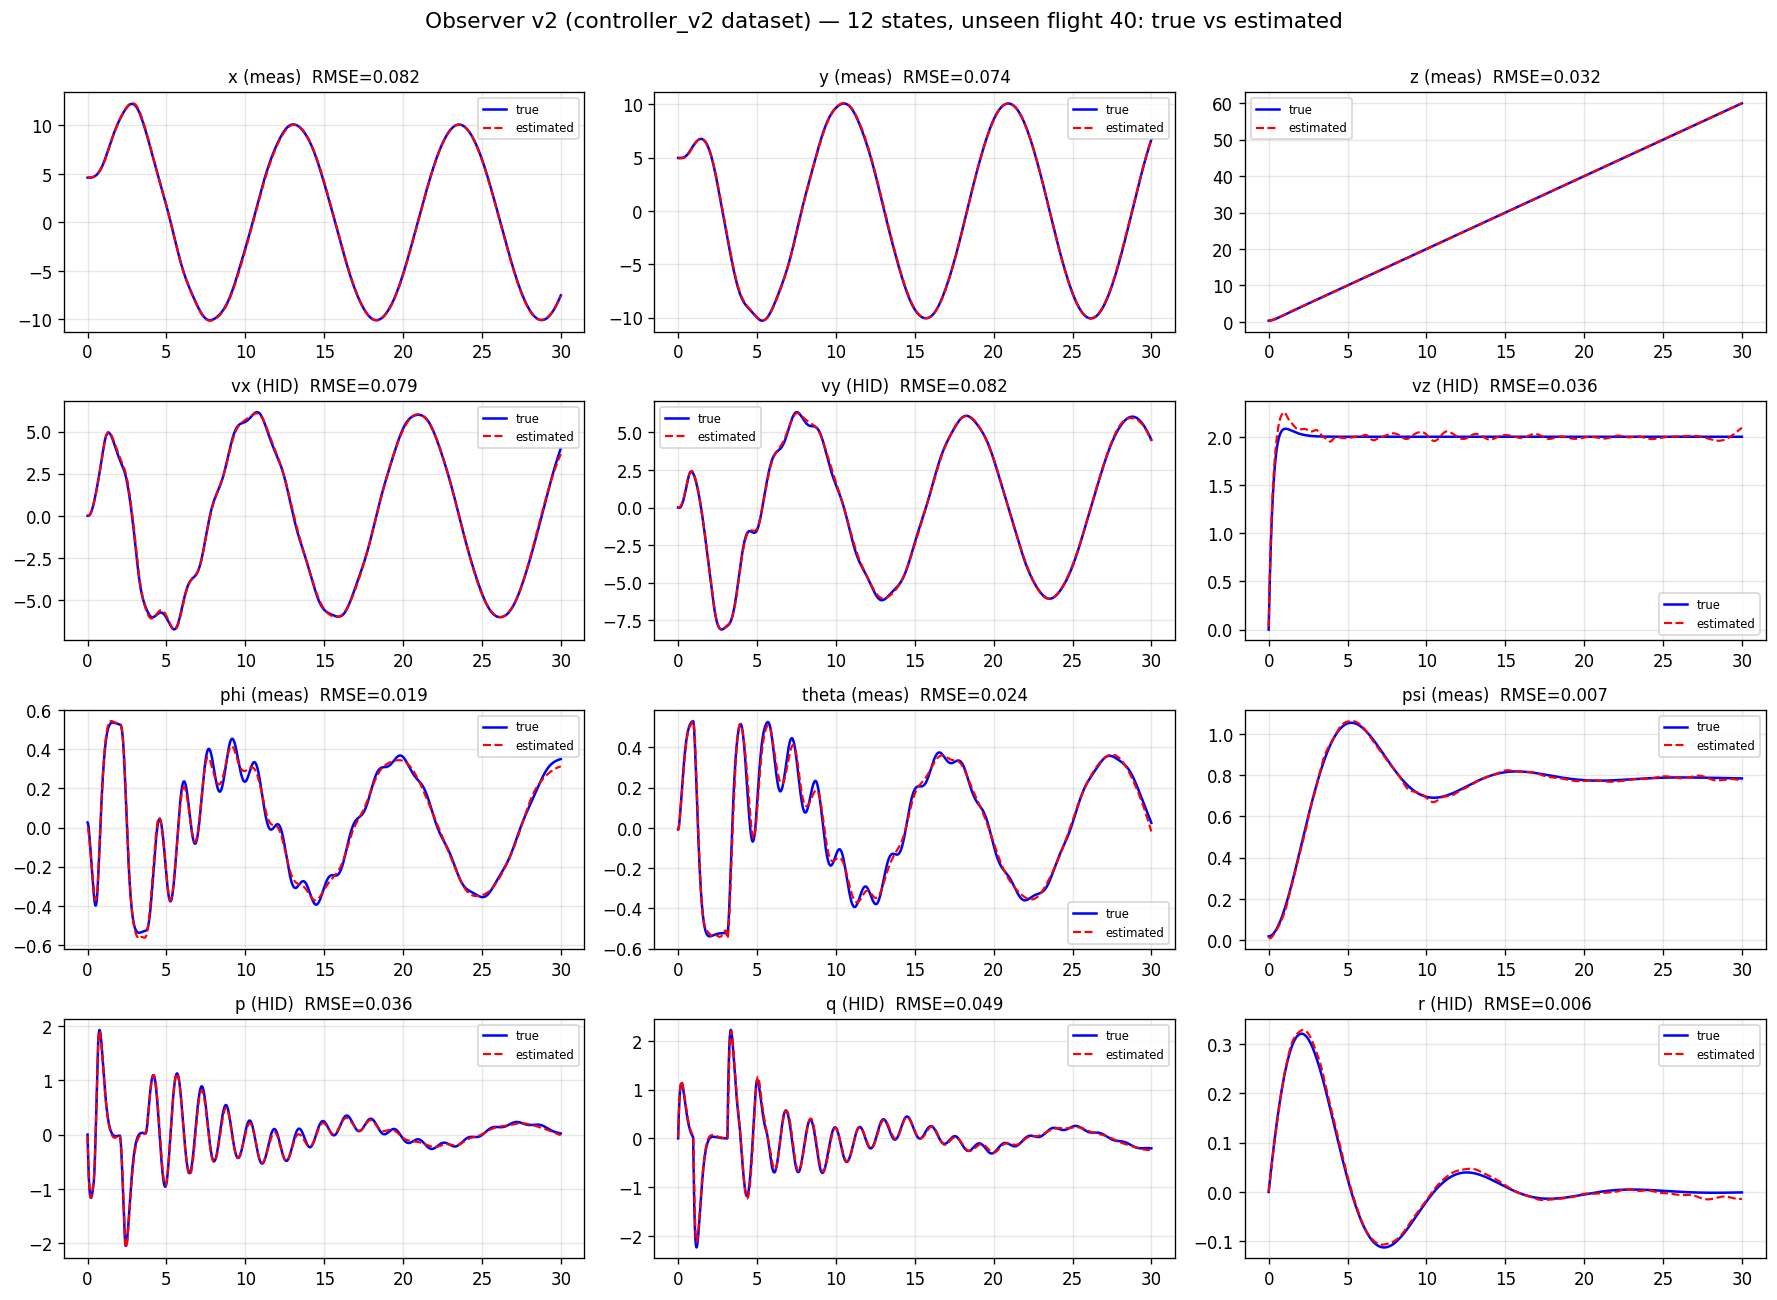
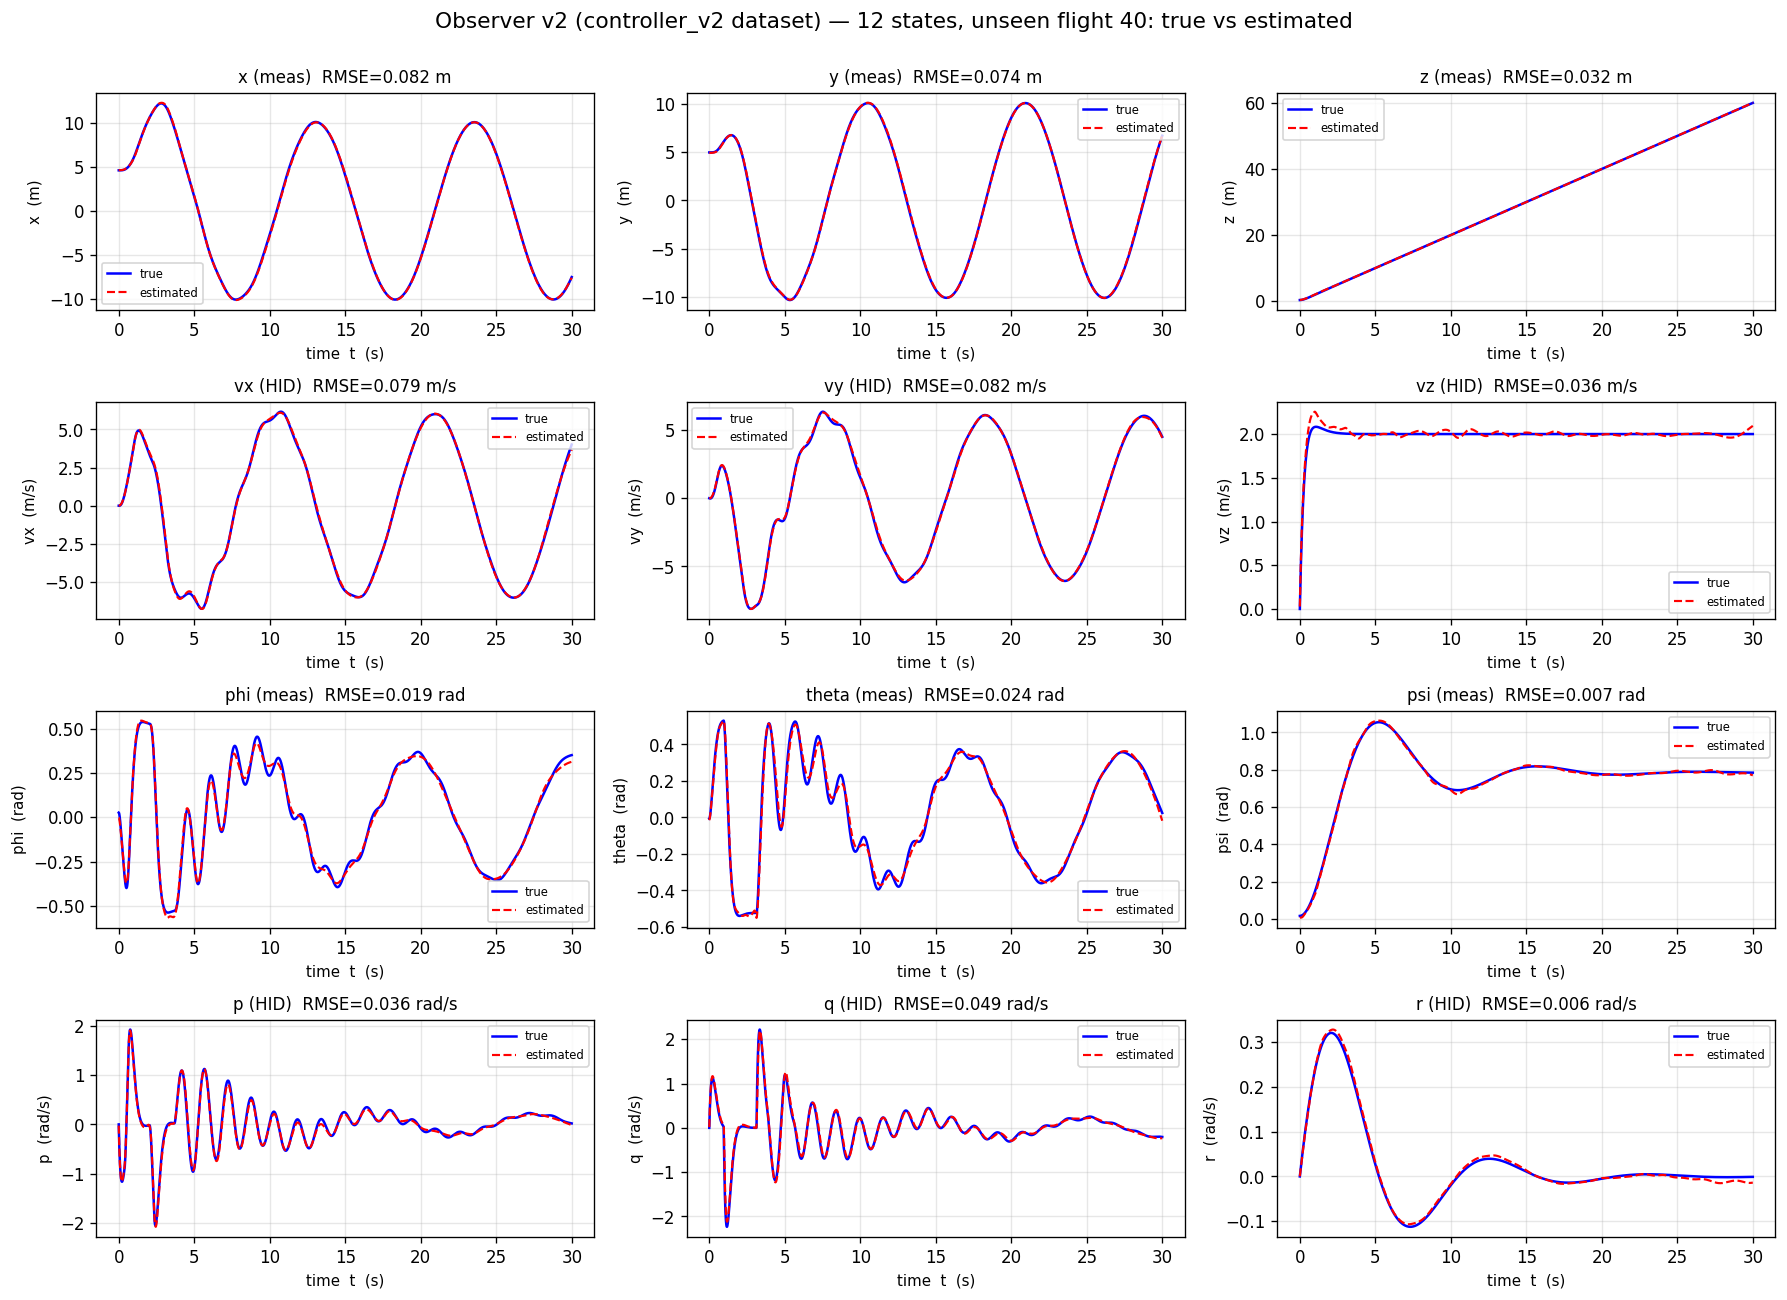
Add axis labels to 12-state plot; add Excel of per-state RMSE (original vs v2)

diff --git a/docs/build_rmse_xlsx.py b/docs/build_rmse_xlsx.py
@@ -1,0 +1,88 @@
+"""Build an Excel of the per-state RMSE results (original vs controller_v2)."""
+import openpyxl
+from openpyxl.styles import Font, PatternFill, Alignment, Border, Side
+
+# state, unit, group, original RMSE (phase5_results), v2 RMSE (eval_12states_v2)
+rows = [
+    ("x","m","measured",0.0660,0.0848),
+    ("y","m","measured",0.0837,0.0791),
+    ("z","m","measured",0.0364,0.0400),
+    ("vx","m/s","hidden",0.1880,0.1015),
+    ("vy","m/s","hidden",0.2036,0.0926),
+    ("vz","m/s","hidden",0.0749,0.0354),
+    ("phi","rad","measured",0.0162,0.0232),
+    ("theta","rad","measured",0.0274,0.0273),
+    ("psi","rad","measured",0.0199,0.0106),
+    ("p","rad/s","hidden",0.0217,0.0472),
+    ("q","rad/s","hidden",0.0607,0.0516),
+    ("r","rad/s","hidden",0.0099,0.0074),
+]
+
+wb = openpyxl.Workbook(); ws = wb.active; ws.title = "RMSE by state"
+NB = Font(bold=True); WHITE = Font(bold=True, color="FFFFFF")
+HEAD = PatternFill("solid", fgColor="1D5FB0")
+GOOD = PatternFill("solid", fgColor="D6EFD6"); BAD = PatternFill("solid", fgColor="F6D3D3")
+GREY = PatternFill("solid", fgColor="ECEFF1")
+thin = Side(style="thin", color="C9D2D9"); border = Border(thin,thin,thin,thin)
+
+ws["A1"] = "PINN Observer — Per-State RMSE (unseen test flights)"; ws["A1"].font = Font(bold=True, size=14)
+ws["A2"] = "Spiral trajectory R=10, omega=0.6  ·  original controller dataset  vs  improved controller_v2 dataset"
+ws["A2"].font = Font(italic=True, color="555555")
+
+hdr = ["State","Unit","Group","Original RMSE","Improved v2 RMSE","Change %","Verdict"]
+for c,h in enumerate(hdr, start=1):
+    cell = ws.cell(row=4, column=c, value=h); cell.font = WHITE; cell.fill = HEAD
+    cell.alignment = Alignment(horizontal="center"); cell.border = border
+
+r0 = 5
+for i,(s,u,g,orig,v2) in enumerate(rows):
+    r = r0+i
+    ch = (v2-orig)/orig*100.0
+    verdict = "improved" if v2 < orig else ("worse" if v2 > orig else "same")
+    vals = [s,u,g,orig,v2,round(ch,1),verdict]
+    for c,val in enumerate(vals, start=1):
+        cell = ws.cell(row=r, column=c, value=val); cell.border = border
+        cell.alignment = Alignment(horizontal="center")
+    ws.cell(row=r, column=4).number_format = "0.0000"
+    ws.cell(row=r, column=5).number_format = "0.0000"
+    ws.cell(row=r, column=6).number_format = "+0.0;-0.0"
+    ws.cell(row=r, column=1).font = NB
+    ws.cell(row=r, column=6).fill = GOOD if ch < 0 else BAD
+    ws.cell(row=r, column=7).fill = GOOD if v2 < orig else BAD
+
+
+# ---- summary rows ----
+summ = [
+    ("avg measured (6)", 0.0416, 0.0442),
+    ("avg hidden (6)",   0.0931, 0.0559),
+    ("avg all (12)",     0.0674, 0.0500),
+]
+rs = r0 + len(rows) + 1
+for j,(name,orig,v2) in enumerate(summ):
+    r = rs+j
+    ch = (v2-orig)/orig*100.0
+    ws.cell(row=r, column=1, value=name).font = NB
+    ws.merge_cells(start_row=r,start_column=1,end_row=r,end_column=3)
+    ws.cell(row=r, column=4, value=orig).number_format = "0.0000"
+    ws.cell(row=r, column=5, value=v2).number_format = "0.0000"
+    c6 = ws.cell(row=r, column=6, value=round(ch,1)); c6.number_format = "+0.0;-0.0"
+    c6.fill = GOOD if ch < 0 else BAD
+    for c in range(1,7):
+        if c != 6:
+            ws.cell(row=r, column=c).fill = GREY
+        ws.cell(row=r, column=c).border = border
+
+note = rs + len(summ) + 1
+ws.cell(row=note, column=1, value="Notes: RMSE = root-mean-square error between true and estimated state on 10 unseen test flights.")
+ws.cell(row=note+1, column=1, value="Negative Change % = improvement (lower error). Same 4x100 observer, weights (0.5,1.5,1.0); only the controller/dataset differs.")
+ws.cell(row=note+2, column=1, value="Source: phase5_results.txt (original) and evaluate_12states_v2.py (improved).")
+for k in range(3):
+    ws.cell(row=note+k, column=1).font = Font(italic=True, color="666666")
+
+widths = {"A":18,"B":8,"C":12,"D":16,"E":18,"F":12,"G":11}
+for col,w in widths.items(): ws.column_dimensions[col].width = w
+ws.freeze_panes = "A5"
+
+out = "docs/observer_v2_rmse.xlsx"
+wb.save(out)
+print("saved ->", out)

diff --git a/phase1a/evaluate_12states_v2.py b/phase1a/evaluate_12states_v2.py
@@ -46,13 +46,16 @@ with torch.no_grad():
     Xp_f = model(t_col, x0_rep).numpy()
 Xt_f = X[flight]
 
+UNITS = ['m','m','m','m/s','m/s','m/s','rad','rad','rad','rad/s','rad/s','rad/s']
 fig, axes = plt.subplots(4,3, figsize=(15,11))
 for i,ax in enumerate(axes.flat):
     r = float(np.sqrt(((Xp_f[:,i]-Xt_f[:,i])**2).mean()))
     ax.plot(T, Xt_f[:,i], 'b-', lw=1.5, label='true')
     ax.plot(T, Xp_f[:,i], 'r--', lw=1.3, label='estimated')
     tag = "meas" if i in MEAS_IDX else "HID"
-    ax.set_title(f"{NAMES[i]} ({tag})  RMSE={r:.3f}", fontsize=10)
+    ax.set_title(f"{NAMES[i]} ({tag})  RMSE={r:.3f} {UNITS[i]}", fontsize=10)
+    ax.set_xlabel("time  t  (s)", fontsize=9)
+    ax.set_ylabel(f"{NAMES[i]}  ({UNITS[i]})", fontsize=9)
     ax.grid(alpha=0.3); ax.legend(fontsize=7)
 fig.suptitle("Observer v2 (controller_v2 dataset) — 12 states, unseen flight 40: true vs estimated", fontsize=13)
 out = os.path.join(os.path.dirname(os.path.dirname(os.path.abspath(__file__))), "docs", "eval_12states_v2.png")
